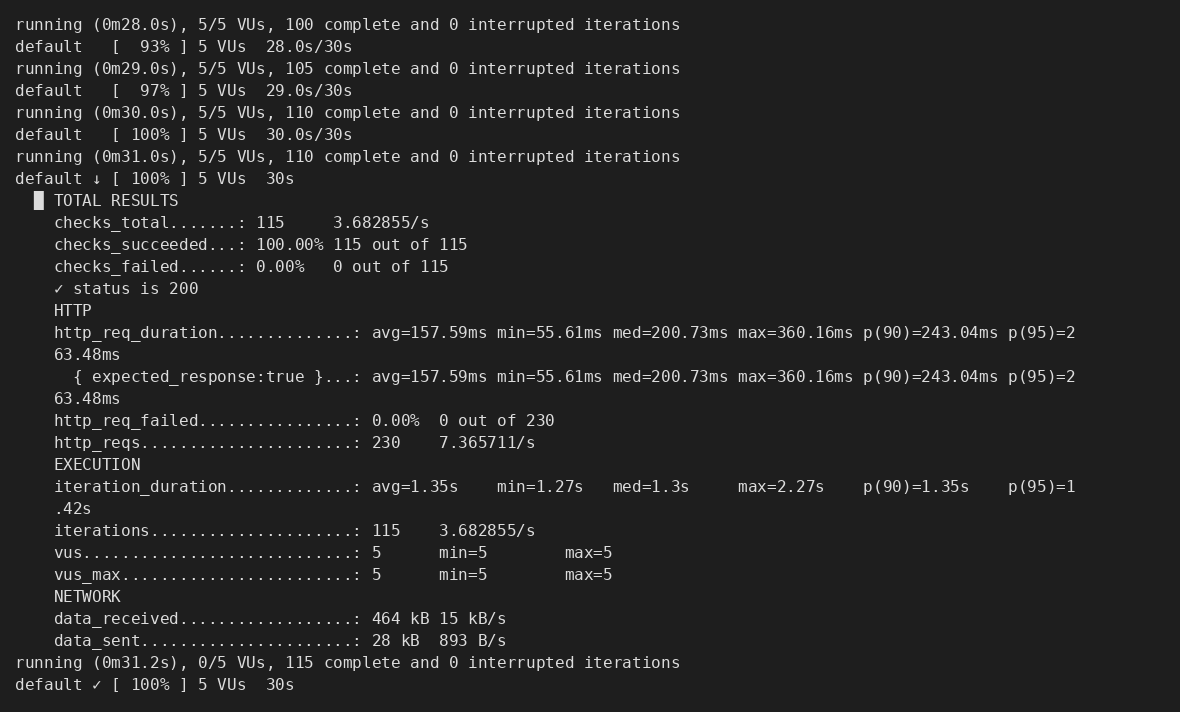
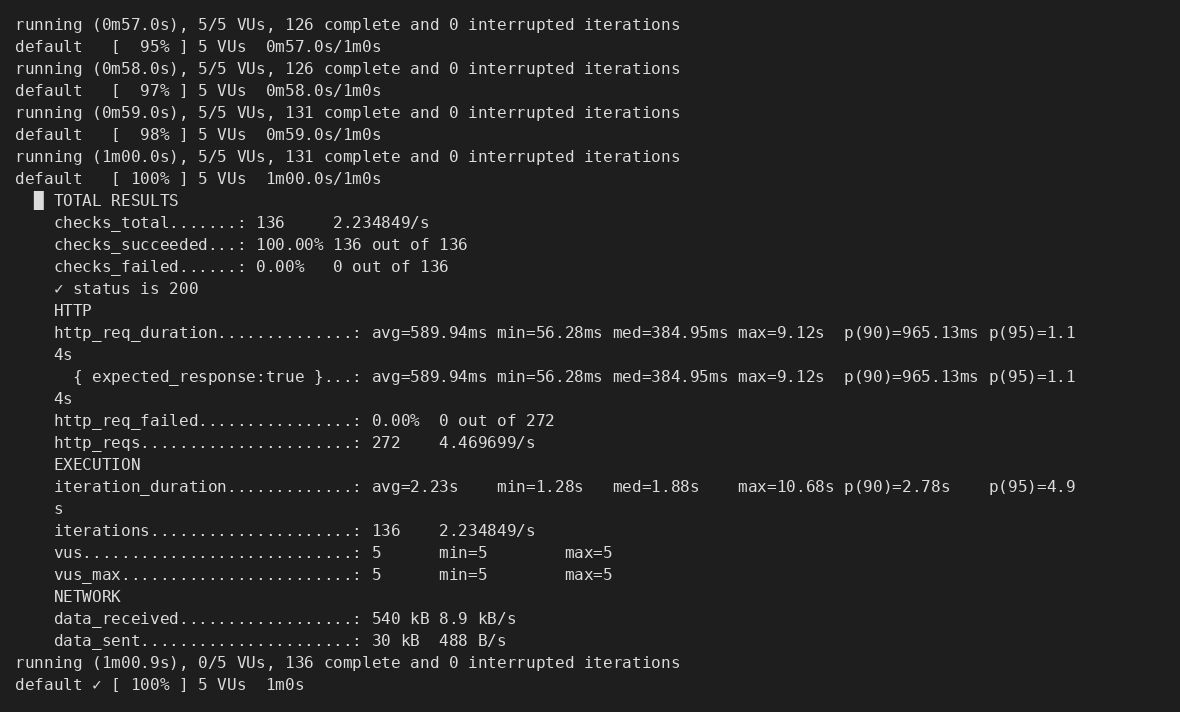
Fix: local SLO from local baseline (p95<18ms), 5VU re-run at 1min

diff --git a/threshold-local-pass.js b/threshold-local-pass.js
@@ -1,12 +1,12 @@
 import http from 'k6/http';
 import { sleep, check } from 'k6';
 
-// Локал сервер рүү хийсэн тогтвортой PASS шалгалт (интернэтийн савалгаагүй).
+// Локал baseline p95 (11.8ms) x 1.5 ≈ 18ms-ээр гаргасан SLO-той тогтвортой PASS шалгалт.
 export const options = {
   vus: 5,
   duration: '30s',
   thresholds: {
-    http_req_duration: ['p(95)<100'],
+    http_req_duration: ['p(95)<18'],
     http_req_failed: ['rate<0.01'],
   },
 };

diff --git a/README.md b/README.md
@@ -42,7 +42,7 @@ k6 v2.2.0 (commit/00a9a1b7f5, go1.26.5, linux/amd64)
 | `stages.js` | Шатлан өсгөх тест (5 → 30 → 100 → 0 VU) |
 | `threshold-pass.js` | Өөрийн baseline-д үндэслэсэн `p(95)<400ms` SLO шалгалт (`test.k6.io`) |
 | `threshold-fail.js` | Тестийг FAIL болгож чанарын босго (Quality Gate) харуулах зорилготой хатуу шалгалт (`p(95)<50ms`) |
-| `threshold-local-pass.js` | Локал сервер рүү хийсэн найдвартай, тогтвортой PASS SLO шалгалт (`p(95)<100ms`) |
+| `threshold-local-pass.js` | Локал baseline (p95 11.8ms × 1.5 ≈ 18ms)-ээс гаргасан `p(95)<18ms` SLO-той тогтвортой PASS шалгалт |
 | `server.js` | Локал Node.js HTTP сервер (`/` энгийн, `/slow` 100ms сааталтай) |
 | `local-test.js` | Локал сервер рүү чиглэсэн ачааллын тест |
 | `ai-scenario.js` | AI туслахын санал болгосон scenario бүхий тест (`group()`, хайлт, нүүр хуудас) |
@@ -56,7 +56,7 @@ k6 v2.2.0 (commit/00a9a1b7f5, go1.26.5, linux/amd64)
 ```bash
 # 1. Түвшин тус бүрийн тестийг тусад нь ажиллуулж гаралтыг хадгалах
 mkdir -p results
-k6 run --vus 5 --duration 30s script.js | tee results/run-05vu.txt
+k6 run --vus 5 --duration 1m script.js | tee results/run-05vu.txt
 k6 run --vus 30 --duration 1m script.js | tee results/run-30vu.txt
 k6 run --vus 100 --duration 1m script.js | tee results/run-100vu.txt
 
@@ -83,7 +83,7 @@ k6 run ai-scenario.js | tee results/run-ai-scenario.txt
 
 | Зэрэгцээ хэрэглэгч (VU) | Хугацаа | Latency p90 | Latency p95 | Throughput (req/s) | Нийт хүсэлт | Error rate |
 |---|---|---|---|---|---|---|
-| **5 VU** (Baseline) | 30s | 243.04 ms | 263.48 ms | 7.37 req/s | 230 | 0.00% (0/230) |
+| **5 VU** (Baseline) | 1m | 965.13 ms | 1.14 s | 4.47 req/s | 272 | 0.00% (0/272) |
 | **30 VU** | 1m | 327.87 ms | 545.66 ms | 41.42 req/s | 2530 | 0.00% (0/2530) |
 | **100 VU** | 1m | 599.23 ms | 1.17 s (1170 ms) | 110.33 req/s | 6822 | 0.00% (0/6822) |
 
@@ -95,17 +95,17 @@ k6 run ai-scenario.js | tee results/run-ai-scenario.txt
 
 ## 7. SLO (Thresholds) ба түүнийг сонгосон үндэслэл
 
-5 VU бүхий baseline хэмжилтээр `test.k6.io` сайтын p95 хугацаа **263.48 ms** гарсан. Тиймээс зааврын жишээ тоог хуулалгүй, өөрийн хэмжсэн baseline утгыг 1.5 дахин авч дээш бүхэлчлэн **SLO-г `p(95) < 400ms`** гэж тодорхойлсон. Энэхүү 1.5 дахин коэффициент нь интернэтийн жирийн хэлбэлзлийг даах зай үлдээхийн зэрэгцээ серверийн бодит удаашралыг цаг алдалгүй илрүүлэх боломжийг олгодог бөгөөд `error rate < 1%` нь лекцийн availability зорилтод нийцнэ.
+Анхны 5 VU baseline хэмжилтээр `test.k6.io` сайтын p95 хугацаа **263.48 ms** гарсан. Тиймээс зааврын жишээ тоог хуулалгүй, өөрийн хэмжсэн baseline утгыг 1.5 дахин авч дээш бүхэлчлэн **SLO-г `p(95) < 400ms`** гэж тодорхойлсон (263.48 × 1.5 ≈ 395 ms). Энэхүү 1.5 дахин коэффициент нь интернэтийн жирийн хэлбэлзлийг даах зай үлдээхийн зэрэгцээ серверийн бодит удаашралыг цаг алдалгүй илрүүлэх боломжийг олгодог бөгөөд `error rate < 1%` нь лекцийн availability зорилтод нийцнэ. Локал серверийн хувьд мөн өөрийн хэмжилтээс гаргасан: локал baseline p95 **11.8 ms** × 1.5 ≈ 18 ms тул локал SLO-г **`p(95) < 18ms`** гэж тавьсан.
 
-- **PASS гаралт:** `results/threshold-local-pass.txt` — Локал сервер дээр хэмжсэн p95 нь 13.67 ms гарч `< 100ms` нөхцөлийг бүрэн хангаж амжилттай PASS гарсан.
+- **PASS гаралт:** `results/threshold-local-pass.txt` — Локал сервер дээр хэмжсэн p95 нь 2.47 ms гарч `< 18ms` нөхцөлийг бүрэн хангаж амжилттай PASS гарсан.
 - **FAIL гаралт:** `results/threshold-fail.txt` — Санаатайгаар хатуу `p(95) < 50ms` босго тавихад бодит p95 нь 476.28 ms болж, `thresholds on metrics 'http_req_duration' have been crossed` гэсэн алдаа заан FAIL болж, CI/CD pipeline дээр чанаргүй кодыг зогсоодог механизмыг баталсан.
-- **Нэмэлт тайлбар:** Алсын `test.k6.io` сервер рүү давтан шалгахад (`results/threshold-pass.txt`) p95 нь 417.26 ms хүрч бага зэрэг босго давсан нь олон нийтийн сүлжээний тогтворгүй байдлаас хамаардаг болохыг харуулсан тул найдвартай PASS үр дүнг локал серверээр давхар баталгаажуулсан.
+- **Нэмэлт тайлбар (нуулгүй бичив):** 5 VU-г 1 минутаар тусад нь дахин ажиллуулахад (`results/run-05vu.txt`) p95 нь 1.14 s хүрч 400 ms SLO-г зөрчсөн. Энэ нь тухайн хэмжилтийн цонхны сүлжээний ачаалал ихэссэнтэй холбоотой (өмнөх давталтууд 263–488 ms хэлбэлзэж байсан) бөгөөд гадаад сүлжээний хэлбэлзэл дангаараа threshold шийдвэрийг эргүүлж чаддагийг харуулж байна. Иймээс найдвартай PASS үр дүнг baseline-аас нь гаргасан 18 ms SLO-той локал серверээр давхар баталгаажуулсан.
 
 ---
 
 ## 8. Дүгнэлт
 
-Энэхүү лабораторийн ажлаар виртуал хэрэглэгчийн тоог 5-аас 30 ба 100 болгон өсгөхөд throughput нь 7.37-оос 41.42 ба 110.33 req/s болж өссөн боловч p95 latency нь 263.48 ms-ээс 545.66 ms болон 1.17 секунд хүртэл огцом муудлаа. Энэ нь Лекц 2-т үзсэн "Ачаалал ихсэхэд нийт боловсруулах чадал нэмэгдэх боловч нэгж хэрэглэгчид ирэх хүлээлтийн хугацаа (tail latency) уртасна" гэсэн онолын зөрчлийг бодит хэмжилтээр баталж байна. Бүх гурван түвшинд error rate 0.00% буюу ямар ч хүсэлт унаагүй тул системийн availability хэвийн хадгалагдаж чадсан. Шатлан өсгөх stages тест нь ерөнхий нэгдсэн ганц summary өгдөг тул түвшин бүрийн онцлогийг нарийн харахын тулд тусдаа ажиллуулах шаардлагатайг туршилтаар ойлголоо. Миний тодорхойлсон p(95) < 400ms бүхий SLO нь 5 VU үед хангагдаж байсан боловч 30 VU хүрэхэд 545.66 ms болж зөрчигдсөн нь 30 орчим зэрэгцээ хэрэглэгчийн цэгээс эхлэн хэрэглэгчийн сэтгэл ханамж муудаж эхэлснийг харуулж байна. Нийтийн интернет сүлжээний савалгаа нь гадаад серверийн latency-д шууд нөлөөлдөг тул найдвартай PASS үр дүнг локал сервер дээр шалгах нь хамгийн зөв арга болохыг харлаа. Санаатайгаар хатуу тавьсан p(95) < 50ms шалгалт нь амжилттай FAIL болж, автоматжуулсан CI чанарын босго (Quality Gate) хэрхэн ажилладгийг бүрэн нотоллоо. Мөн JavaScript код дээр суурилсан k6 хэрэгсэл нь тестийг Git-д хувилбаржуулан хадгалах болон автоматжуулахад GUI хэрэгслүүдээс хамаагүй илүү давуу талтайг практик дээр баталлаа. Дүгнэж хэлэхэд, гүйцэтгэлийн тестийн SLO нь зохиомол тоо биш, харин бодит baseline хэмжилтэд суурилсан үед л жинхэнэ чанарын хэмжүүр болж чадна.
+Гурван түвшинг тус бүрд нь 1 минутаар туршихад throughput нь 4.47-өөс 41.42 ба 110.33 req/s болж, p95 latency нь 1.14 s, 545.66 ms болон 1.17 s гарлаа. 5 VU хэмжилт нь сүлжээний ачаалал ихтэй цонхонд таарч p95 нь 30 VU-ээс өндөр гарсан нь алсын серверийн хэлбэлзэл түвшин хоорондын шууд харьцуулалтад хүртэл нөлөөлдгийг харуулж байна. Гэсэн хэдий ч 30-аас 100 VU рүү өсгөхөд throughput 41.42-оос 110.33 req/s болж өссөн бол p95 545.66 ms-ээс 1.17 s болж муудсан нь Лекц 2-т үзсэн "хүчин чадал өсөхөд tail latency уртасна" гэсэн онолын зөрчлийг бодит хэмжилтээр баталж байна. Бүх гурван түвшинд error rate 0.00% буюу ямар ч хүсэлт унаагүй тул системийн availability хэвийн хадгалагдаж чадсан. Шатлан өсгөх stages тест нь ерөнхий нэгдсэн ганц summary (p95 1.5 s) өгдөг тул түвшин бүрийн онцлогийг нарийн харахын тулд тусдаа ажиллуулах шаардлагатайг туршилтаар ойлголоо. Анхны baseline (p95 263.48 ms)-ээс гаргасан p(95) < 400 ms SLO нь 1 минутын 5 VU (1.14 s), 30 VU (545.66 ms) болон 100 VU (1.17 s) хэмжилтүүдэд зөрчигдсөн нь муудсан сүлжээний нөхцөлд хэрэглэгчийн туршлага бүх түвшинд доройтож буйг харуулж байна. Харин локал baseline (p95 11.8 ms)-ээс гаргасан p(95) < 18 ms SLO нь p95 2.47 ms-ээр тогтвортой хангагдсан тул найдвартай PASS үр дүнг локал орчинд шалгах нь хамгийн зөв арга болохыг харлаа. Санаатайгаар хатуу тавьсан p(95) < 50 ms шалгалт нь амжилттай FAIL болж, автоматжуулсан CI чанарын босго (Quality Gate) хэрхэн ажилладгийг бүрэн нотоллоо. Дүгнэж хэлэхэд, гүйцэтгэлийн тестийн SLO нь зохиомол тоо биш, харин бодит baseline хэмжилтэд (гадаад болон локал орчин тус бүрдээ) суурилсан үед л жинхэнэ чанарын хэмжүүр болж чадна.
 
 ---
 
@@ -113,7 +113,7 @@ k6 run ai-scenario.js | tee results/run-ai-scenario.txt
 
 - **k6 тестийн скриптүүд:** `script.js`, `stages.js`, `threshold-pass.js`, `threshold-fail.js`, `threshold-local-pass.js`, `ai-scenario.js`, `local-test.js`, `server.js`
 - **Бүтэн текст гаралтууд:**
-  - `results/run-05vu.txt` (5 VU түвшний гаралт)
+  - `results/run-05vu.txt` (5 VU, 1 мин түвшний гаралт)
   - `results/run-30vu.txt` (30 VU түвшний гаралт)
   - `results/run-100vu.txt` (100 VU түвшний гаралт)
   - `results/run-stages.txt` (Шатлан өсгөсөн үеийн бүрэн гаралт)
